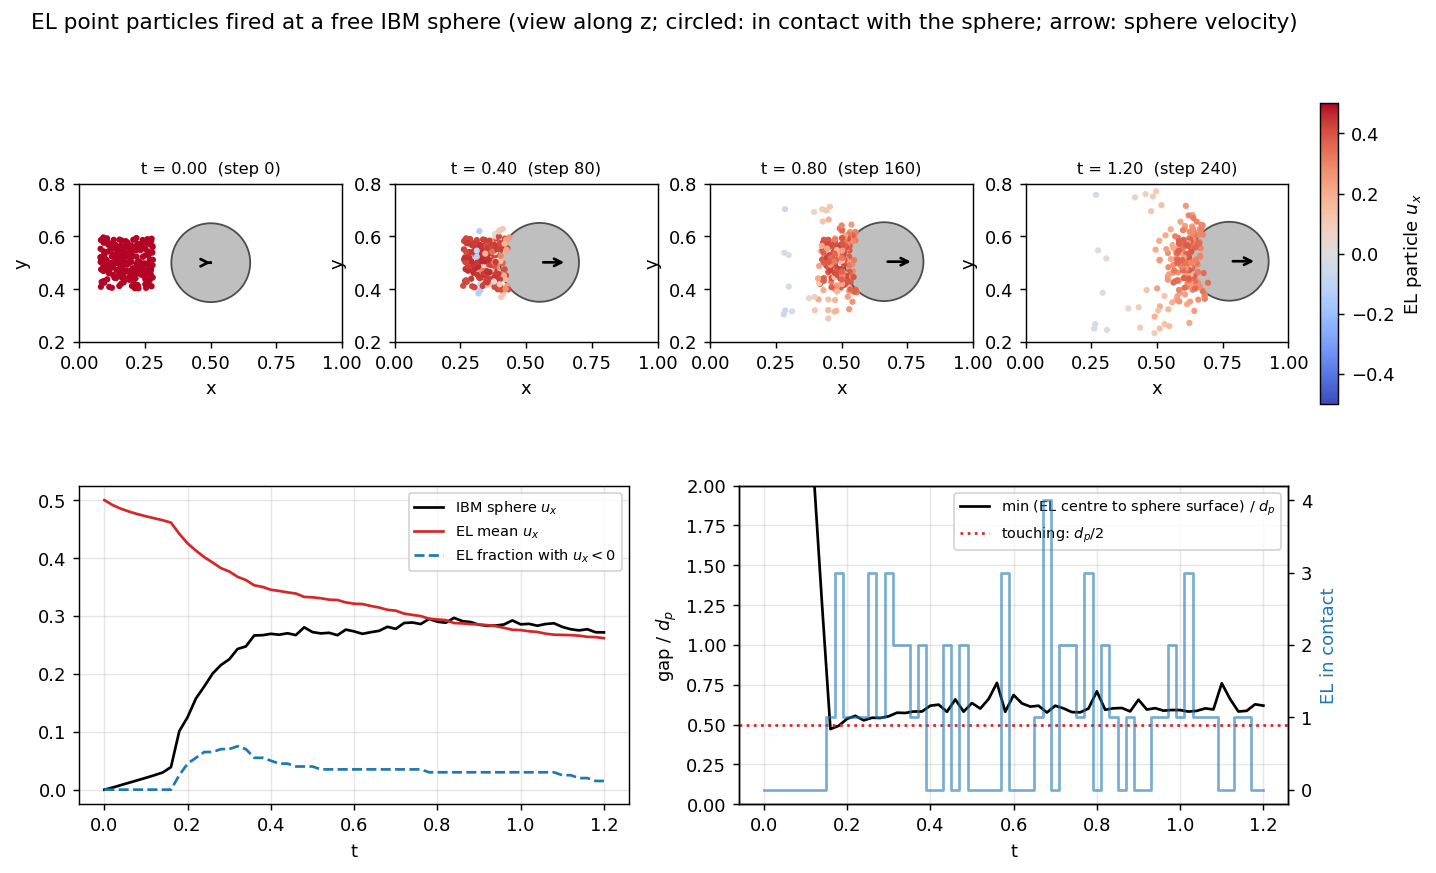
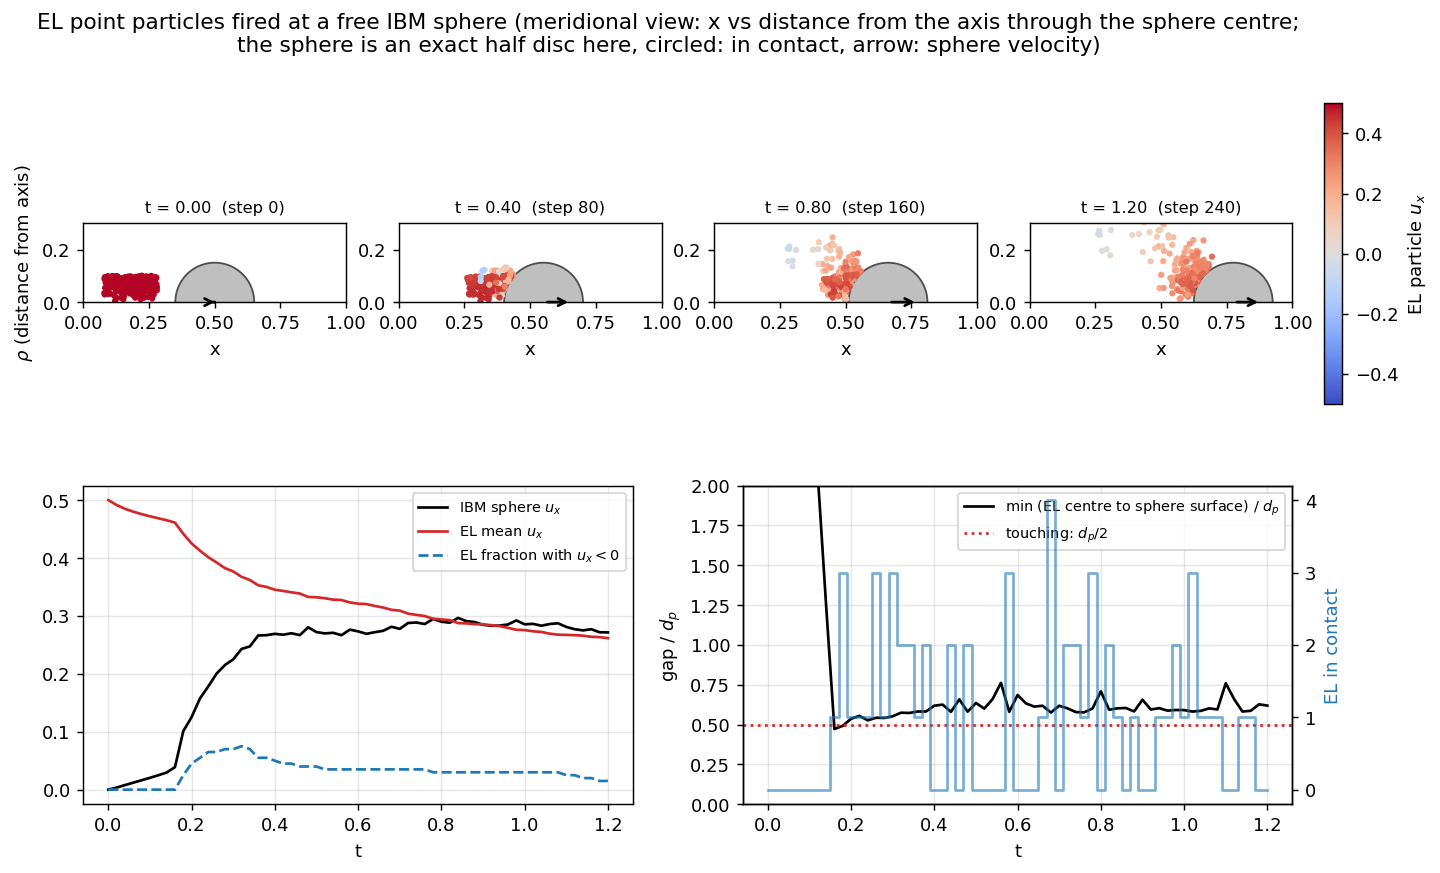
Collision figures: add the meridional view
In the x-y projection, particles resting on the sphere above or below its
equator appear inside the outline. Plotting x against the distance from the
axis through the sphere centre shows the sphere as an exact half disc, so only
a real penetration could put a particle inside it.

diff --git a/scripts/plot_collision.py b/scripts/plot_collision.py
@@ -37,20 +37,29 @@ def load(case):
     return frames, body
 
 
-def draw(ax, el, b, title):
+def draw(ax, el, b, title, meridional=False):
+    """x-y projection, or the meridional view (x, distance from the x axis
+    through the sphere centre), in which the sphere is an exact half disc and
+    a particle can only appear inside it by actually penetrating."""
     ax.clear()
-    ax.add_patch(plt.Circle((b["x"], b["y"]), b["radius"], color="0.75", ec="0.3", lw=1.0, zorder=1))
+    if meridional:
+        h = np.hypot(el["y"] - b["y"], el["z"] - b["z"])
+        yc, ylim, ylabel = 0.0, (0.0, 0.3), r"$\rho$ (distance from axis)"
+    else:
+        h = el["y"]
+        yc, ylim, ylabel = b["y"], (0.2, 0.8), "y"
+    ax.add_patch(plt.Circle((b["x"], yc), b["radius"], color="0.75", ec="0.3", lw=1.0, zorder=1))
     touching = el["contact"] > 0
-    sc = ax.scatter(el["x"], el["y"], c=el["u"], cmap="coolwarm", vmin=-0.5, vmax=0.5, s=6, zorder=2)
-    ax.scatter(el["x"][touching], el["y"][touching], facecolors="none", edgecolors="k", s=30, lw=0.8, zorder=3)
-    ax.annotate("", xy=(b["x"] + 0.4 * b["u"] + 1e-9, b["y"]), xytext=(b["x"], b["y"]),
+    sc = ax.scatter(el["x"], h, c=el["u"], cmap="coolwarm", vmin=-0.5, vmax=0.5, s=6, zorder=2)
+    ax.scatter(el["x"][touching], h[touching], facecolors="none", edgecolors="k", s=30, lw=0.8, zorder=3)
+    ax.annotate("", xy=(b["x"] + 0.4 * b["u"] + 1e-9, yc), xytext=(b["x"], yc),
                 arrowprops=dict(arrowstyle="->", color="k", lw=1.5), zorder=4)
     ax.set_xlim(0, 1)
-    ax.set_ylim(0.2, 0.8)
+    ax.set_ylim(*ylim)
     ax.set_aspect("equal")
     ax.set_title(title, fontsize=9)
     ax.set_xlabel("x")
-    ax.set_ylabel("y")
+    ax.set_ylabel(ylabel)
     return sc
 
 
@@ -65,7 +74,9 @@ def main():
     sc = None
     for k, (step, t, el, b) in enumerate(picks):
         ax = fig.add_subplot(2, 4, k + 1)
-        sc = draw(ax, el, b, f"t = {t:.2f}  (step {step})")
+        sc = draw(ax, el, b, f"t = {t:.2f}  (step {step})", meridional=True)
+        if k > 0:
+            ax.set_ylabel("")
     cax = fig.add_axes([0.92, 0.55, 0.012, 0.33])
     fig.colorbar(sc, cax=cax, label="EL particle $u_x$")
 
@@ -94,18 +105,20 @@ def main():
     ax2.set_ylabel("EL in contact", color="C0")
     ax.legend(fontsize=8, loc="upper right")
     ax.grid(alpha=0.3)
-    fig.suptitle("EL point particles fired at a free IBM sphere (view along z; circled: in contact with the sphere; arrow: sphere velocity)")
+    fig.suptitle("EL point particles fired at a free IBM sphere (meridional view: x vs distance from the axis through"
+                 " the sphere centre;\nthe sphere is an exact half disc here, circled: in contact, arrow: sphere velocity)")
     fig.savefig(os.path.join(out, "collision_summary.png"), dpi=130, bbox_inches="tight")
 
-    # animation
-    fig, ax = plt.subplots(figsize=(7, 4.5))
+    # animation: the x-y projection next to the meridional view
+    fig, axs = plt.subplots(1, 2, figsize=(11, 4.2))
 
     def update(i):
         step, t, el, b = frames[i]
-        draw(ax, el, b, f"EL-IBM collision, t = {t:.3f}")
+        draw(axs[0], el, b, f"x-y projection (particles above/below the sphere overlap it), t = {t:.3f}")
+        draw(axs[1], el, b, "meridional view (true distance to the sphere)", meridional=True)
 
     anim = FuncAnimation(fig, update, frames=len(frames))
-    anim.save(os.path.join(out, "collision.gif"), writer=PillowWriter(fps=8), dpi=90)
+    anim.save(os.path.join(out, "collision.gif"), writer=PillowWriter(fps=8), dpi=80)
     print("wrote", os.path.join(out, "collision_summary.png"), "and collision.gif")
 
 

diff --git a/README.md b/README.md
@@ -8,6 +8,11 @@ direct forcing.
 
 ![EL particles fired at a free IBM sphere](docs/img/collision.gif)
 
+*Left: x–y projection, where particles above and below the sphere overlap its
+outline. Right: x against the distance from the axis through the sphere
+centre, where the sphere is an exact half disc; no particle enters it (closest
+centre 0.47 d_p from the surface, touching at 0.5 d_p).*
+
 - EL particles: drag, gravity, two-way momentum coupling (Gaussian projection,
   `F / (1 - phi_p)`), volume-filtered continuity
   `div u = -(1/phi_f) D phi_f/Dt`, soft-sphere EL–EL contact.
@@ -74,3 +79,10 @@ the shared model in `src/`, or the patches change, and always relinks the UDF.
 - [x] EL–EL and EL–IBM soft-sphere contact
 - [ ] IBM–IBM contact, particle–wall contact (ppiclF walls are not wired yet)
 - [ ] GPU particle path (see `docs/design.md`)
+
+## License
+
+BSD 3-Clause, see [LICENSE](LICENSE). The submodules keep their own licenses
+(nekRS and NekIBM: UChicago Argonne BSD-style; ppiclF: MIT). The patches in
+`patches/ppiclF/` modify ppiclF source and remain under ppiclF's MIT license,
+[patches/ppiclF/LICENSE.ppiclF](patches/ppiclF/LICENSE.ppiclF).
